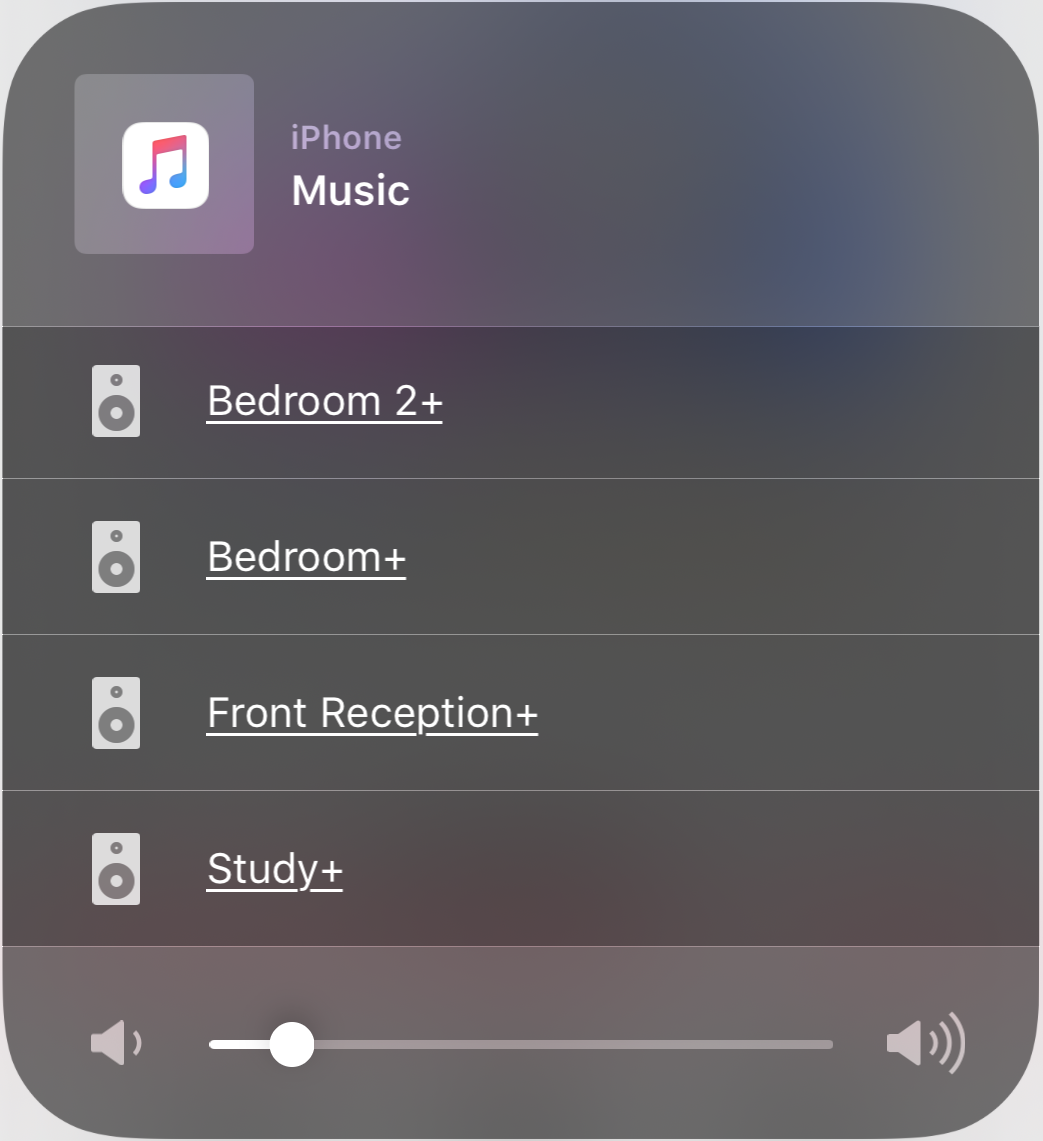
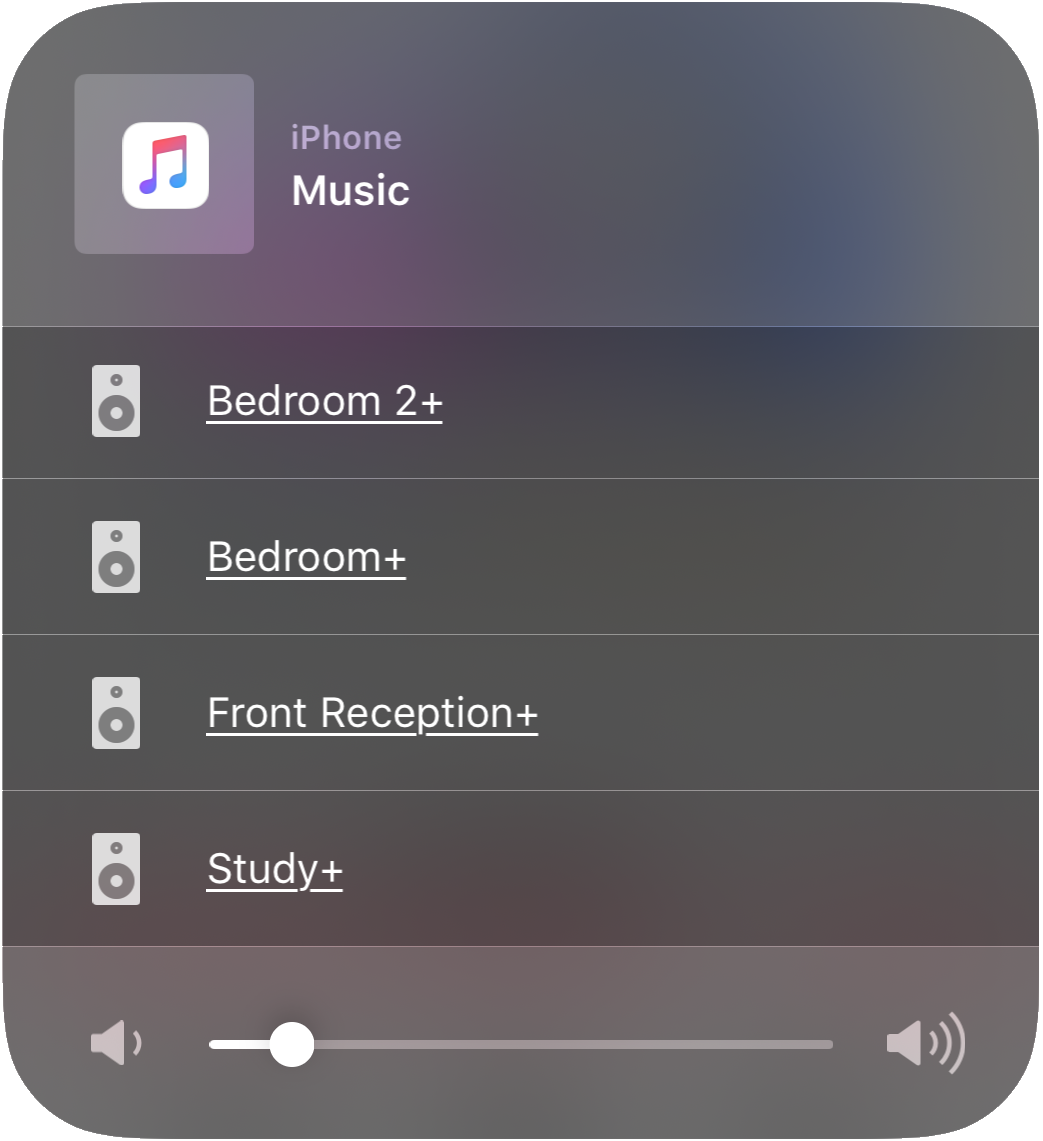
Add Sonos app views; improve AirPlay menu image

diff --git a/sonoplus-faq/index.md b/sonoplus-faq/index.md
@@ -49,6 +49,8 @@ Avantrec uses the [Balena](https://www.balena.io) Internet of Things (IoT)  serv
 
 This approach has a strong focus on [security](https://www.balena.io/docs/learn/welcome/security/) both in terms of the software that runs on SonoPlus devices as well as the means by which the devices are remotely accessed and managed.
 
+Note that SonoPlus requires an Internet connection only for remote management and software updates. Its AirPlay function doesn't require an Internet connection.
+
 ## Is SonoPlus for me?
 
 If you want a plug-and-play solution that delivers a reliable and easy to use AirPlay capability for your older Sonos players, then SonoPlus is likely to be a good fit for your needs.
